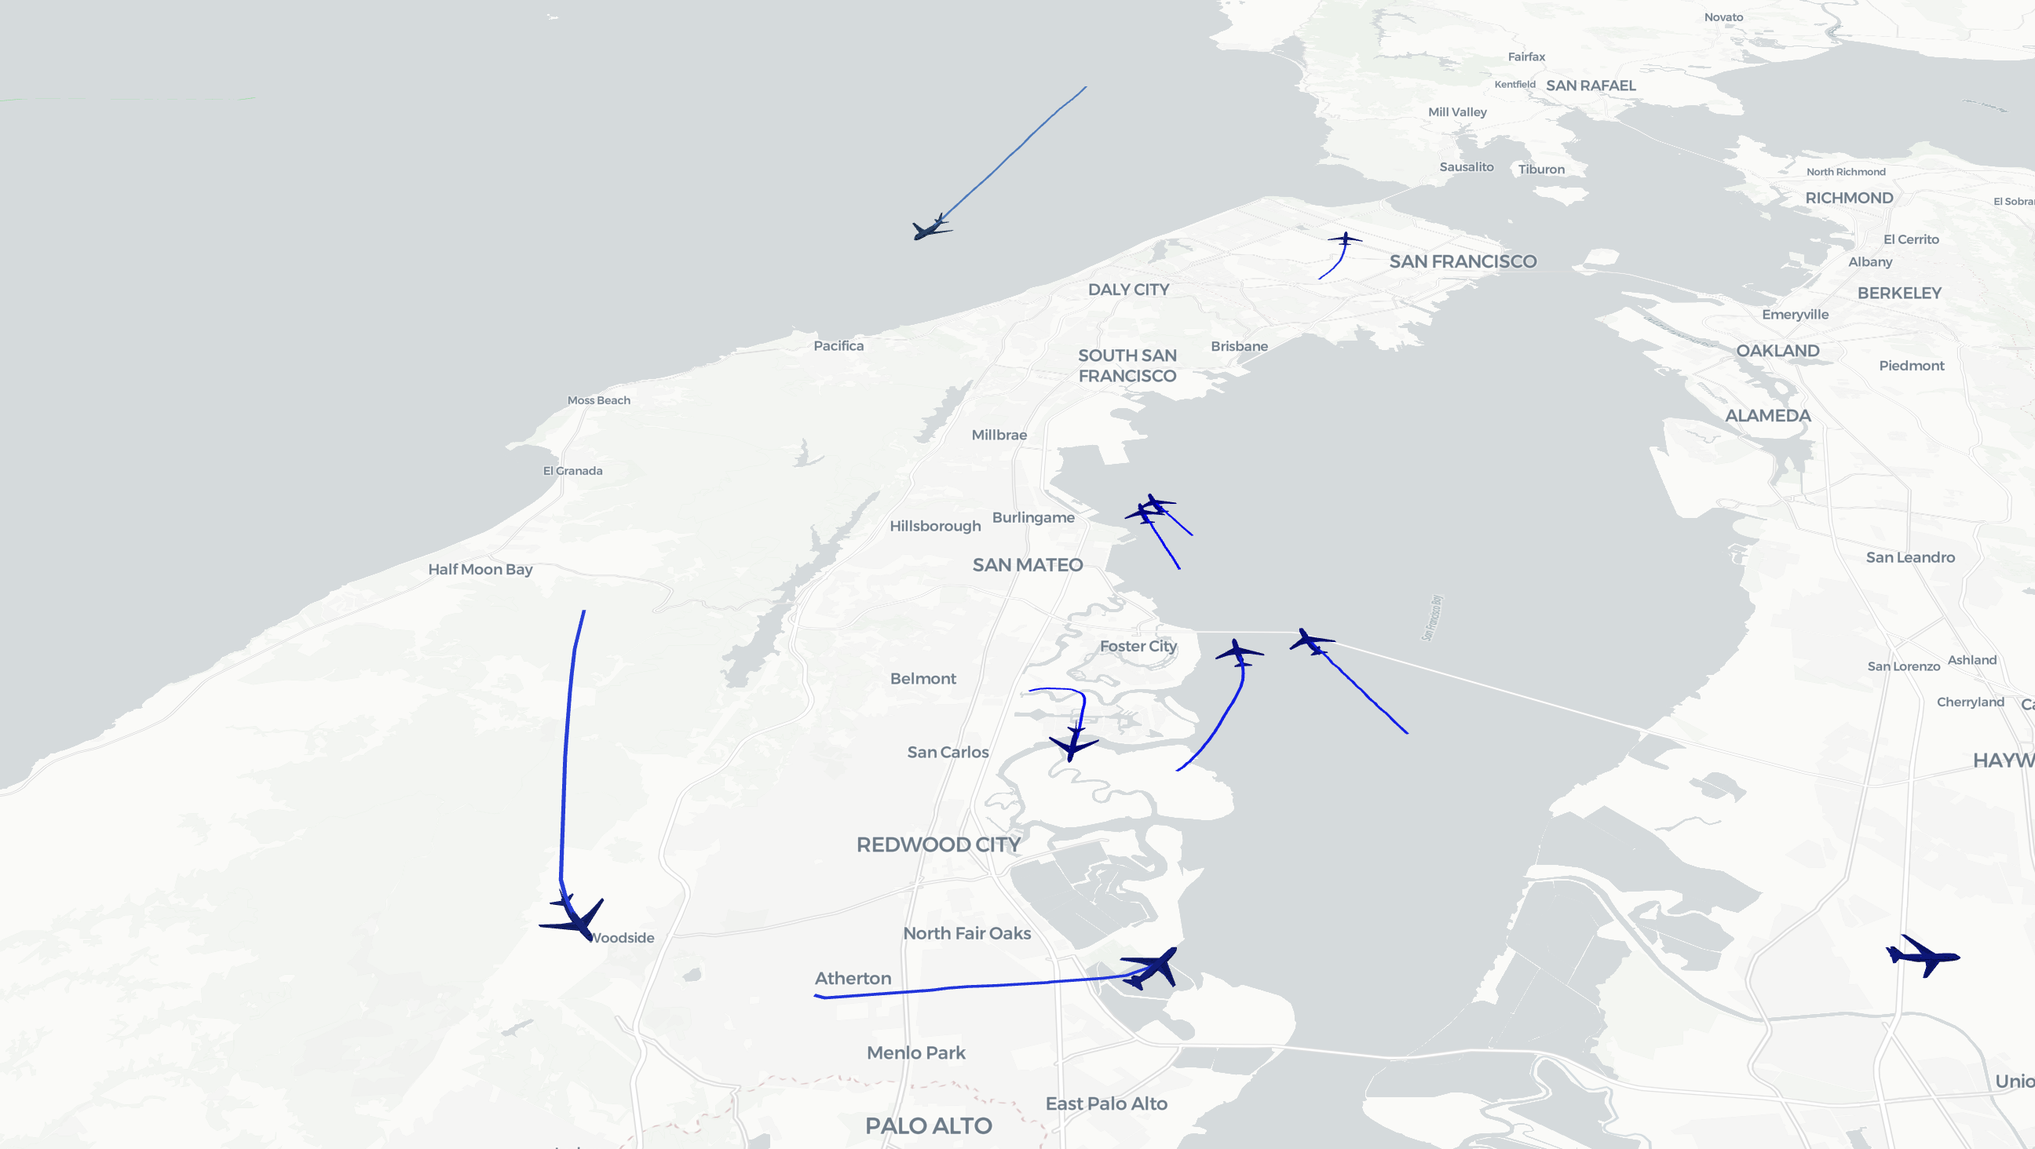
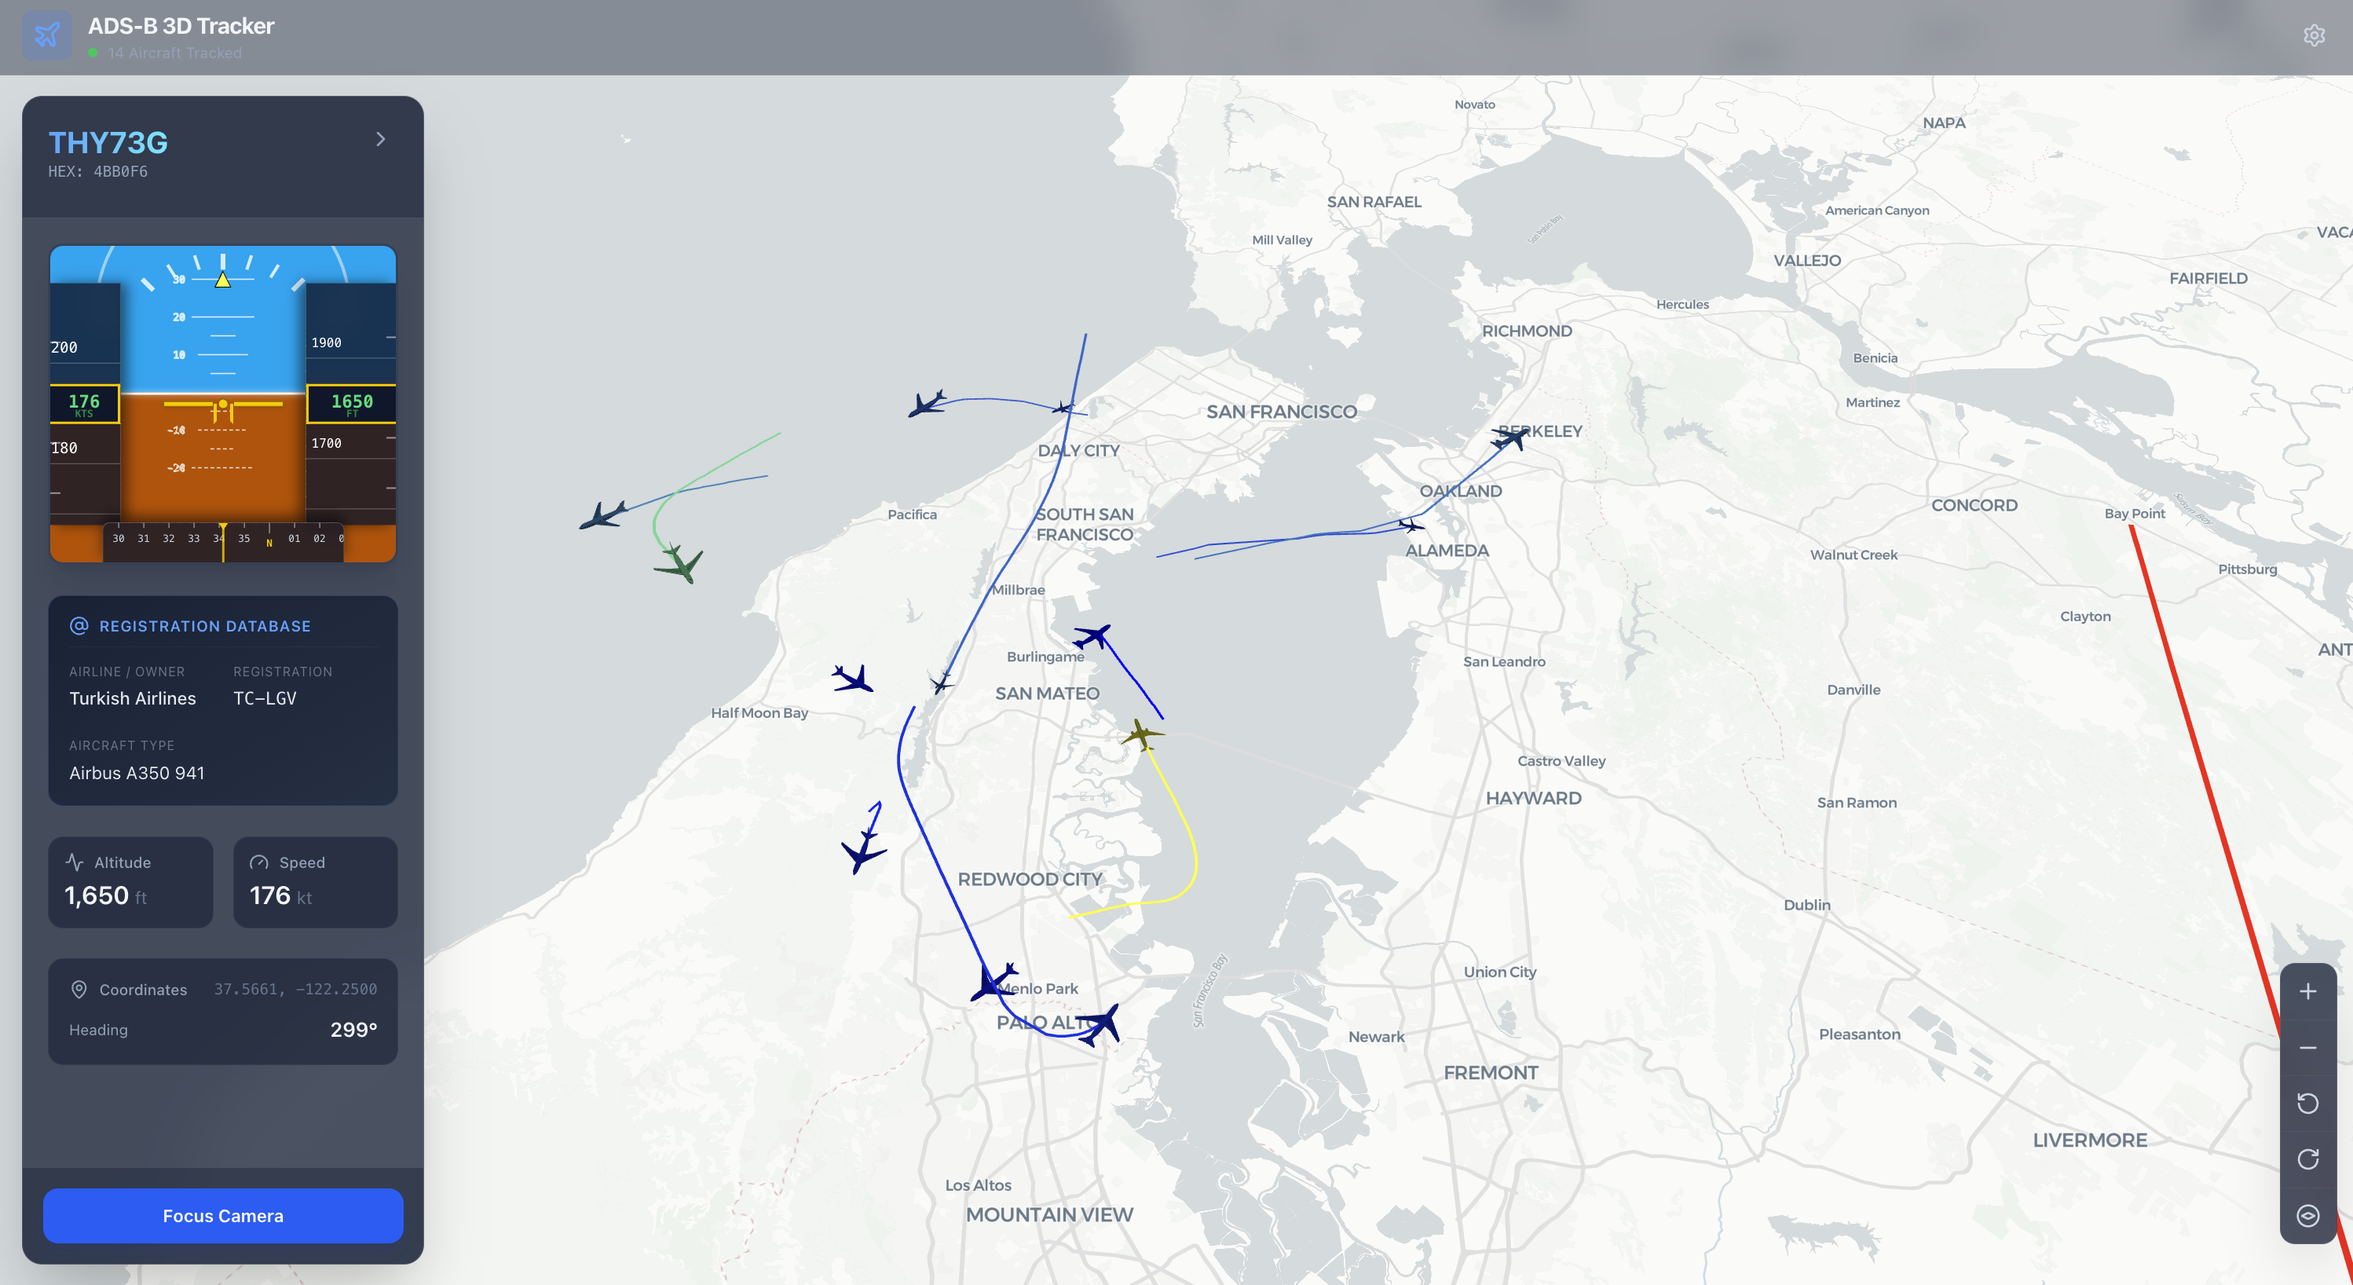
adding Attitude Indicator (AI)

diff --git a/src/components/AttitudeIndicator.tsx b/src/components/AttitudeIndicator.tsx
@@ -1,0 +1,218 @@
+import React from 'react';
+
+interface AttitudeIndicatorProps {
+    pitch: number;    // degrees (-90 to 90)
+    roll: number;     // degrees (-180 to 180)
+    speed: number;    // knots
+    altitude: number; // feet
+    heading: number;  // degrees (0 to 360)
+}
+
+export const AttitudeIndicator: React.FC<AttitudeIndicatorProps> = ({
+    pitch = 0,
+    roll = 0,
+    speed = 0,
+    altitude = 0,
+    heading = 0
+}) => {
+    // Clamp values for safety
+    const clampedPitch = Math.max(-90, Math.min(90, pitch));
+
+    // Calculate translations for tapes and horizon
+    // 1 degree of pitch = 3px of vertical movement
+    const horizonY = clampedPitch * 3;
+
+    // For scrolling tapes, map values to Y translation offsets
+    const speedDecade = Math.floor(speed / 10) * 10;
+    const altHundred = Math.floor(altitude / 100) * 100;
+
+    const hdgOffset = -(heading % 360) * 2; // 2px per degree
+
+    return (
+        <div className="relative w-full aspect-square max-h-64 rounded-xl overflow-hidden bg-slate-800 border-2 border-slate-700 shadow-xl font-mono select-none">
+
+            {/* 1. The Artificial Horizon Background (Pitch & Roll) */}
+            <div
+                className="absolute inset-[-50%] transition-transform duration-300 ease-out origin-center"
+                style={{ transform: `rotate(${-roll}deg) translateY(${horizonY}px)` }}
+            >
+                {/* Sky (Blue) */}
+                <div className="absolute top-0 w-full h-1/2 bg-sky-500">
+                    {/* Pitch Ladder SVG overlay */}
+                    <svg className="absolute bottom-0 w-full h-[300px]" viewBox="0 0 200 300">
+                        <g stroke="white" strokeWidth="1" opacity="0.8">
+                            <line x1="80" y1="270" x2="120" y2="270" /> {/* +10 */}
+                            <text x="70" y="273" fill="white" fontSize="8" textAnchor="end">10</text>
+                            <line x1="90" y1="285" x2="110" y2="285" /> {/* +5 */}
+
+                            <line x1="75" y1="240" x2="125" y2="240" /> {/* +20 */}
+                            <text x="70" y="243" fill="white" fontSize="8" textAnchor="end">20</text>
+                            <line x1="90" y1="255" x2="110" y2="255" /> {/* +15 */}
+
+                            <line x1="75" y1="210" x2="125" y2="210" /> {/* +30 */}
+                            <text x="70" y="213" fill="white" fontSize="8" textAnchor="end">30</text>
+                        </g>
+                    </svg>
+                </div>
+
+                {/* Horizon Line */}
+                <div className="absolute top-1/2 w-full h-[2px] bg-white z-10 shadow-[0_0_5px_rgba(255,255,255,0.8)]"></div>
+
+                {/* Ground (Brown) */}
+                <div className="absolute bottom-0 w-full h-1/2 bg-amber-700">
+                    {/* Pitch Ladder (Negative) SVG overlay */}
+                    <svg className="absolute top-0 w-full h-[300px]" viewBox="0 0 200 300">
+                        <g stroke="white" strokeWidth="1" opacity="0.8" strokeDasharray="3 2">
+                            <line x1="90" y1="15" x2="110" y2="15" /> {/* -5 */}
+                            <line x1="80" y1="30" x2="120" y2="30" /> {/* -10 */}
+                            <text x="70" y="33" fill="white" fontSize="8" textAnchor="end">-10</text>
+
+                            <line x1="90" y1="45" x2="110" y2="45" /> {/* -15 */}
+                            <line x1="75" y1="60" x2="125" y2="60" /> {/* -20 */}
+                            <text x="70" y="63" fill="white" fontSize="8" textAnchor="end">-20</text>
+                        </g>
+                    </svg>
+                </div>
+            </div>
+
+            {/* 2. Fixed Center Reticle / Airplane Symbol */}
+            <div className="absolute inset-0 flex items-center justify-center pointer-events-none z-20">
+                <div className="relative w-32 h-32">
+                    {/* Center Dot */}
+                    <div className="absolute top-1/2 left-1/2 w-2 h-2 bg-yellow-400 rounded-full -translate-x-1/2 -translate-y-1/2 shadow-sm border border-black/50"></div>
+                    {/* Left Wing */}
+                    <div className="absolute top-1/2 left-4 w-10 h-1 bg-yellow-400 -translate-y-1/2 shadow-sm border border-black/50"></div>
+                    {/* Right Wing */}
+                    <div className="absolute top-1/2 right-4 w-10 h-1 bg-yellow-400 -translate-y-1/2 shadow-sm border border-black/50"></div>
+                    <div className="absolute top-1/2 left-[calc(1rem+40px)] w-0 h-4 border-l-[3px] border-yellow-400 border-b-[3px] border-b-transparent"></div>
+                    <div className="absolute top-1/2 right-[calc(1rem+40px)] w-0 h-4 border-r-[3px] border-yellow-400 border-b-[3px] border-b-transparent"></div>
+                </div>
+            </div>
+
+            {/* 3. Roll Indicator Arc (Top) */}
+            <div className="absolute top-0 left-0 w-full h-1/4 overflow-hidden pointer-events-none z-20">
+                <svg className="w-full h-full" viewBox="0 0 200 50">
+                    {/* Static Arc */}
+                    <path d="M 20 40 A 80 80 0 0 1 180 40" fill="none" stroke="white" strokeWidth="2" opacity="0.5" />
+                    {/* Static Ticks */}
+                    <g stroke="white" strokeWidth="2" opacity="0.8">
+                        <line x1="100" y1="5" x2="100" y2="15" strokeWidth="3" /> {/* 0 deg */}
+                        <line x1="82" y1="6" x2="85" y2="15" /> {/* -10 deg */}
+                        <line x1="118" y1="6" x2="115" y2="15" /> {/* +10 deg */}
+                        <line x1="65" y1="12" x2="70" y2="20" /> {/* -20 deg */}
+                        <line x1="135" y1="12" x2="130" y2="20" /> {/* +20 deg */}
+                        <line x1="49" y1="21" x2="56" y2="28" strokeWidth="3" /> {/* -30 deg */}
+                        <line x1="151" y1="21" x2="144" y2="28" strokeWidth="3" /> {/* +30 deg */}
+                        <line x1="22" y1="46" x2="31" y2="43" strokeWidth="3" /> {/* -60 deg */}
+                        <line x1="178" y1="46" x2="169" y2="43" strokeWidth="3" /> {/* +60 deg */}
+                    </g>
+
+                    {/* Dynamic Roll Pointer */}
+                    <g
+                        transform={`rotate(${-roll} 100 80)`}
+                        className="transition-transform duration-300 ease-out origin-[100px_80px]"
+                    >
+                        <polygon points="100,16 95,26 105,26" fill="yellow" stroke="black" strokeWidth="0.5" />
+                    </g>
+                </svg>
+            </div>
+
+            {/* 4. Speed Tape (Left) */}
+            <div className="absolute left-0 top-1/2 -translate-y-1/2 w-14 h-48 bg-slate-900/80 border-r border-white/20 backdrop-blur-sm z-30 overflow-hidden shadow-[5px_0_10px_rgba(0,0,0,0.5)]">
+                {/* Moving Tape */}
+                <div
+                    className="absolute w-full flex flex-col items-end transition-transform duration-300 ease-linear"
+                    style={{ transform: `translateY(${((speed % 10) * 4)}px)` }}
+                >
+                    {[-30, -20, -10, 0, 10, 20, 30].map((offset) => {
+                        const val = speedDecade - offset;
+                        const isTarget = offset === 0;
+                        if (val < 0) return <div key={offset} className="h-10 border-b border-transparent"></div>;
+
+                        return (
+                            <div key={offset} className="w-full h-10 border-b border-white/30 flex items-end justify-between pr-1 pb-1">
+                                <div className="w-2 h-[1px] bg-white/50 mb-3 absolute left-0"></div>
+                                <span className={`text-xs ${isTarget ? 'text-transparent' : 'text-white'}`}>{val}</span>
+                            </div>
+                        );
+                    })}
+                </div>
+
+                {/* Readout Box (Center Fixed) */}
+                <div className="absolute top-1/2 left-0 w-full h-8 -translate-y-1/2 bg-slate-900 border-y-2 border-r-2 border-yellow-400 flex flex-col items-center justify-center font-bold text-green-400 text-sm transform">
+                    <div className="absolute -right-[6px] top-1/2 -translate-y-1/2 w-0 h-0 border-y-[6px] border-y-transparent border-l-[6px] border-l-yellow-400 pointer-events-none z-40"></div>
+                    {Math.round(speed)}
+                    <span className="text-[8px] text-green-600/80 -mt-1 leading-none uppercase">KTS</span>
+                </div>
+            </div>
+
+            {/* 5. Altitude Tape (Right) */}
+            <div className="absolute right-0 top-1/2 -translate-y-1/2 w-[72px] h-48 bg-slate-900/80 border-l border-white/20 backdrop-blur-sm z-30 overflow-hidden shadow-[-5px_0_10px_rgba(0,0,0,0.5)]">
+                {/* Moving Tape */}
+                <div
+                    className="absolute w-full flex flex-col items-start transition-transform duration-300 ease-linear"
+                    style={{ transform: `translateY(${((altitude % 100) * 0.4)}px)` }}
+                >
+                    {[-300, -200, -100, 0, 100, 200, 300].map((offset) => {
+                        const val = altHundred - offset;
+                        const isTarget = offset === 0;
+                        if (val < 0) return <div key={offset} className="h-10 border-b border-transparent"></div>;
+
+                        return (
+                            <div key={offset} className="w-full h-10 border-b border-white/30 flex items-end justify-between pl-1 pb-1">
+                                <span className={`text-[10px] ${isTarget ? 'text-transparent' : 'text-white'}`}>{val}</span>
+                                <div className="w-2 h-[1px] bg-white/50 mb-3 absolute right-0"></div>
+                            </div>
+                        );
+                    })}
+                </div>
+
+                {/* Readout Box (Center Fixed) */}
+                <div className="absolute top-1/2 right-0 w-full h-8 -translate-y-1/2 bg-slate-900 border-y-2 border-l-2 border-yellow-400 flex flex-col items-center justify-center font-bold text-green-400 text-sm transform">
+                    <div className="absolute -left-[6px] top-1/2 -translate-y-1/2 w-0 h-0 border-y-[6px] border-y-transparent border-r-[6px] border-r-yellow-400 pointer-events-none z-40"></div>
+                    {Math.round(altitude)}
+                    <span className="text-[8px] text-green-600/80 -mt-1 leading-none uppercase">FT</span>
+                </div>
+            </div>
+
+            {/* 6. Heading Strip (Bottom) */}
+            <div className="absolute bottom-0 left-1/2 -translate-x-1/2 w-48 h-8 bg-slate-900/80 border-t border-x border-white/20 rounded-t-md backdrop-blur-sm z-30 overflow-hidden shadow-[0_-5px_10px_rgba(0,0,0,0.5)]">
+                {/* Moving Strip */}
+                <div
+                    className="absolute top-0 h-full flex transition-transform duration-300 ease-linear"
+                    style={{ transform: `translateX(${hdgOffset}px)` }}
+                >
+                    {/* We render 3 copies of 360 degrees to ensure seamless scrolling wrap-around */}
+                    {[0, 1, 2].map((cycle) => (
+                        <div key={cycle} className="flex h-full">
+                            {Array.from({ length: 36 }).map((_, i) => {
+                                const deg = i * 10;
+                                const isCardinal = deg % 90 === 0;
+                                let label = (deg / 10).toString().padStart(2, '0');
+
+                                if (deg === 0) label = 'N';
+                                if (deg === 90) label = 'E';
+                                if (deg === 180) label = 'S';
+                                if (deg === 270) label = 'W';
+
+                                return (
+                                    <div key={i} className="flex flex-col items-center justify-start h-full" style={{ width: '20px' }}>
+                                        <div className={`w-px bg-white ${isCardinal ? 'h-2' : 'h-1'} mb-[2px] opacity-70`}></div>
+                                        <span className={`text-[8px] ${isCardinal ? 'text-yellow-400 font-bold' : 'text-slate-300'}`}>
+                                            {label}
+                                        </span>
+                                    </div>
+                                );
+                            })}
+                        </div>
+                    ))}
+                </div>
+
+                {/* Center Needle */}
+                <div className="absolute top-0 left-1/2 -translate-x-1/2 w-[2px] h-full bg-yellow-400/80 z-40"></div>
+                <div className="absolute top-0 left-1/2 -translate-x-1/2 w-0 h-0 border-x-4 border-x-transparent border-t-[6px] border-t-yellow-400 z-40"></div>
+            </div>
+
+        </div>
+    );
+};

diff --git a/src/hooks/useFlightData.ts b/src/hooks/useFlightData.ts
@@ -30,6 +30,8 @@ export interface ProcessedFlight extends FlightData {
   aircraftType: string; // The parsed normalized type string
   trajectory: [number, number, number][]; // [lon, lat, alt] path history
   lastUpdated: number;
+  pitch: number;       // Calculated pitch angle in degrees
+  roll: number;        // Calculated roll angle in degrees
 }
 
 
@@ -70,7 +72,9 @@ class MockFlightGenerator {
       track,
       gs,
       trajectory: [[lon, lat, alt]],
-      lastUpdated: Date.now()
+      lastUpdated: Date.now(),
+      pitch: 0,
+      roll: 0
     });
   }
 
@@ -87,10 +91,21 @@ class MockFlightGenerator {
       f.lon += (distKm * Math.sin(radTrack)) / (111 * Math.cos(f.lat * Math.PI / 180));
 
       // Slowly change altitude
+      const prevAlt = f.alt_baro;
       f.alt_baro += (Math.random() - 0.5) * 100;
 
       // Slowly turn
+      const prevTrack = f.track;
       f.track = (f.track + (Math.random() - 0.5) * 5) % 360;
+
+      // Basic mock pitch/roll calculation
+      const altDiff = f.alt_baro - prevAlt;
+      f.pitch = Math.max(-15, Math.min(15, altDiff * 0.5)); // Climb = nose up
+
+      let trackDiff = f.track - prevTrack;
+      if (trackDiff > 180) trackDiff -= 360;
+      if (trackDiff < -180) trackDiff += 360;
+      f.roll = Math.max(-45, Math.min(45, trackDiff * 5)); // Right turn = positive roll
 
       // Add to trajectory (keep last 50 points)
       f.trajectory.push([f.lon, f.lat, f.alt_baro]);
@@ -196,6 +211,29 @@ export function useFlightData(url: string, pollIntervalMs: number = 2000) {
               : parsedType;
 
             if (existing) {
+              // Calculate Pitch and Roll based on delta
+              let currentPitch = existing.pitch || 0;
+              let currentRoll = existing.roll || 0;
+
+              const dt = (now - existing.lastUpdated) / 1000; // seconds
+              if (dt > 0 && dt < 10) {
+                // Altitude rate of change (feat/sec)
+                const vs = (parsedAlt - (existing.alt_baro || 0)) / dt;
+                // Rough approximation: 1000fpm (16fps) ~= 3 degrees pitch
+                const targetPitch = Math.max(-20, Math.min(20, vs * (3 / 16)));
+                currentPitch = currentPitch * 0.7 + targetPitch * 0.3; // smooth
+
+                // Heading rate of change (deg/sec)
+                let trkDelta = parsedTrack - (existing.track || 0);
+                if (trkDelta > 180) trkDelta -= 360;
+                if (trkDelta < -180) trkDelta += 360;
+
+                const turnRate = trkDelta / dt;
+                // standard rate turn (3 deg/sec) is ~15 deg bank at 150kts
+                const targetRoll = Math.max(-60, Math.min(60, turnRate * 5));
+                currentRoll = currentRoll * 0.7 + targetRoll * 0.3; // smooth
+              }
+
               // Only update trajectory if moved significantly to save memory/processing
               const lastPos = existing.trajectory[existing.trajectory.length - 1];
               const movedEnough = lastPos && (Math.abs(lastPos[0] - newPos[0]) > 0.0001 || Math.abs(lastPos[1] - newPos[1]) > 0.0001);
@@ -213,7 +251,9 @@ export function useFlightData(url: string, pollIntervalMs: number = 2000) {
                 id,
                 aircraftType: finalType,
                 trajectory: newTrajectory,
-                lastUpdated: now
+                lastUpdated: now,
+                pitch: currentPitch,
+                roll: currentRoll
               });
             } else {
               next.set(id, {
@@ -224,7 +264,9 @@ export function useFlightData(url: string, pollIntervalMs: number = 2000) {
                 id,
                 aircraftType: finalType,
                 trajectory: [newPos],
-                lastUpdated: now
+                lastUpdated: now,
+                pitch: 0,
+                roll: 0
               });
             }
           });

diff --git a/src/App.tsx b/src/App.tsx
@@ -1,6 +1,7 @@
 import { useState, useEffect } from 'react';
 import { useFlightData } from './hooks/useFlightData';
 import { FlightMap } from './components/FlightMap';
+import { AttitudeIndicator } from './components/AttitudeIndicator';
 import { Plane, MapPin, Gauge, Settings, ChevronRight, Activity, AtSign } from 'lucide-react';
 import { fetchAircraftDetails } from './services/hexdb';
 import type { HexDbAircraft } from './services/hexdb';
@@ -210,6 +211,17 @@ function App() {
             </div>
 
             <div className="flex-1 overflow-y-auto p-5 space-y-6">
+
+              {/* Attitude Indicator */}
+              <div className="w-full">
+                <AttitudeIndicator
+                  pitch={selectedFlight.pitch || 0}
+                  roll={selectedFlight.roll || 0}
+                  speed={selectedFlight.gs || 0}
+                  altitude={selectedFlight.alt_baro || 0}
+                  heading={selectedFlight.track || 0}
+                />
+              </div>
 
               {/* Enhanced HexDB Display */}
               {isLoadingDetails ? (
